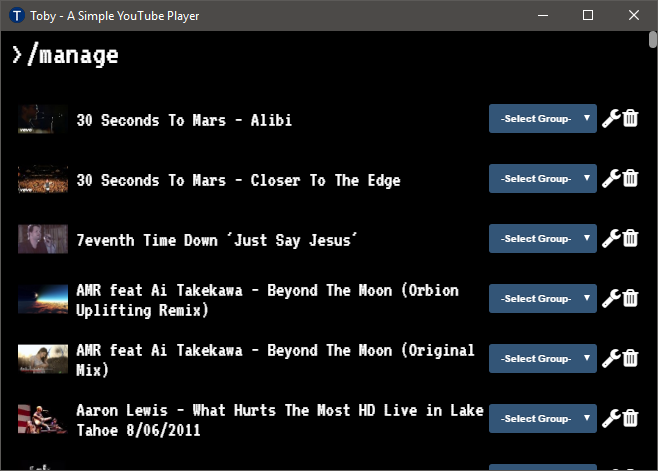
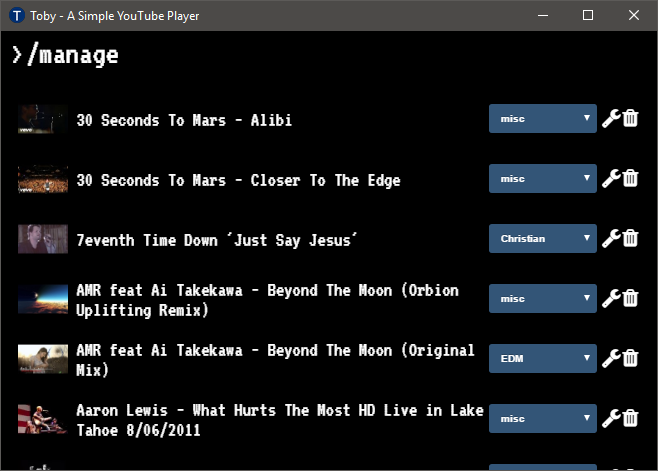
Select group in dropdown when managing videos

diff --git a/src/video-list-ui.js b/src/video-list-ui.js
@@ -26,7 +26,6 @@ class VideoList extends React.Component {
     this.state = {
       data: [],
       applyFilter: "",
-      manageButtonItems: [],
       onAddVideoButtonHandler: function() {},
       onUpdateVideoButtonHandler: function() {},
       onDeleteVideoButtonHandler: function() {}
@@ -66,25 +65,28 @@ class VideoList extends React.Component {
       });
     }
 
-    this.setState({
-      items: items,
-      data: nextProps.data.map(function(d, i) {
+    let videos = [];
+
+    if(nextProps.data !== undefined && nextProps.data.length > 0) {
+      videos = nextProps.data.map(function(d, i) {
+        //console.log(d);
+
         return {
           playVideo: d.playVideo,
           title: d.title,
           ytid: d.ytid,
+          group: d.group,
           thumbnail: d.thumbnail,
           isArchived: d.isArchived,
           justAdded: (d.justAdded !== undefined) ? d.justAdded : false
         };
-      }.bind(this)),
+      }.bind(this));
+    }
+
+    this.setState({
+      items: items,
+      data: videos,
       applyFilter: (nextProps.applyFilter !== undefined) ? nextProps.applyFilter : "",
-      manageButtonItems: nextProps.data.map(function(d, i) {
-        return {
-          title: d.title,
-          ytid: d.ytid
-        };
-      }),
       onAddVideoButtonHandler: nextProps.addVideoButtonHandler,
       onUpdateVideoButtonHandler: nextProps.updateVideoButtonHandler,
       onDeleteVideoButtonHandler: nextProps.deleteVideoButtonHandler,
@@ -95,7 +97,7 @@ class VideoList extends React.Component {
     e.preventDefault();
 
     let id = $(e.target).prop("id").replace("star-", ""),
-        video = _.find(this.state.manageButtonItems, { "ytid": id }),
+        video = _.find(this.state.data, { "ytid": id }),
         group = $(`#groupSelector-${video.ytid}`).val();
 
     if(group === "-1") return;
@@ -118,7 +120,7 @@ class VideoList extends React.Component {
     console.log($(e.target).prop("id").replace("star-", ""));
 
     let id = $(e.target).prop("id").replace("star-", ""),
-        video = _.find(this.state.manageButtonItems, { "ytid": id }),
+        video = _.find(this.state.data, { "ytid": id }),
         group = $(`#groupSelector-${video.ytid}`).val();
 
     if(group === "-1") return;
@@ -131,7 +133,7 @@ class VideoList extends React.Component {
     e.preventDefault();
 
     let id = $(e.target).prop("id").replace("star-", ""),
-        video = _.find(this.state.manageButtonItems, { "ytid": id });
+        video = _.find(this.state.data, { "ytid": id });
 
     if(this.state.onDeleteVideoButtonHandler !== undefined && video !== undefined) {
       this.state.onDeleteVideoButtonHandler(video);
@@ -178,7 +180,7 @@ class VideoList extends React.Component {
 
         manageButton =
           <td className="border-right buttonContainerWidth"><span>
-            <DropDown name={"groupSelector-" + d.ytid } items={this.state.items} className={dropDownClass} onDropDownChange={this.onDropDownChange} />
+            <DropDown name={"groupSelector-" + d.ytid } selected={d.group} items={this.state.items} className={dropDownClass} onDropDownChange={this.onDropDownChange} />
             <a href="#" id={"star-" + d.ytid} onClick={this.onUpdateVideoButtonHandler} className={updateButtonClass}></a>
             <a href="#" id={"star-" + d.ytid} onClick={this.onDeleteVideoButtonHandler} className={deleteButtonClass}></a>
           </span></td>;

diff --git a/public/stylesheets/app.css b/public/stylesheets/app.css
@@ -115,7 +115,9 @@ tr:hover td.border-right {
   text-decoration: none;
   margin-right: 2px;
 }
-
+.manageButton:hover {
+  color: #999;
+}
 .grayscale {
   -webkit-filter: grayscale(1);
 }
@@ -138,7 +140,6 @@ tr:hover td.border-right {
 ::-webkit-scrollbar-corner {
     background: #fff;
 }
-
 /* Select style borrowed from: http://codepen.io/AmrSubZero/pen/dxpri */
 select {
   background-color:#357;
@@ -160,25 +161,20 @@ select {
   -webkit-transition:0.3s ease all;
 	        transition:0.3s ease all;
 }
-
 select:focus, select:active {
   border:0;
   outline:0;
 }
-
 .groupDropDown:hover {
   background-color:#123;
 }
-
 .groupDropDownDisabled {
   margin-right: 5px;
   background-color:#333;
 }
-
 .groupDropDown {
   margin-right: 5px;
 }
-
 #version {
   position: fixed;
   bottom: 25px;

diff --git a/src/toby-ui.js b/src/toby-ui.js
@@ -196,6 +196,7 @@ class TobyUI extends React.Component {
         playVideo: this.playVideo.bind(this),
         title: v.title,
         ytid: v.ytid,
+        group: v.group,
         thumbnail: `https://i.ytimg.com/vi/${v.ytid}/default.jpg`,
         isArchived: v.isArchived
       });
@@ -277,7 +278,10 @@ class TobyUI extends React.Component {
     }
   }
   render() {
-    let versionDisplay = (this.state.searchResults.length > 0) ? false : true;
+    let versionDisplay = true;
+    if (this.state.searchResults !== undefined && this.state.searchResults.length > 0) {
+      versionDisplay = false;
+    }
 
     return (
       <div>

diff --git a/src/dropdown-ui.js b/src/dropdown-ui.js
@@ -63,12 +63,13 @@ class DropDown extends React.Component {
   }
   render() {
     let renderedItems =  this.state.items.map(function(e, i) {
-      if(e.selected) {
+      //console.log(`${e.name} === ${this.props.selected}`);
+      if(e.selected || (this.props.selected !== undefined && this.props.selected === e.name)) {
         return <option key={i} value={e.value} selected>{e.name}</option>
       } else {
         return <option key={i} value={e.value}>{e.name}</option>
       }
-    });
+    }.bind(this));
 
     return (
       <select id={this.state.name}

diff --git a/index.html b/index.html
@@ -15,7 +15,7 @@
     <div id="loading">
       <i class="fa fa-spinner fa-spin fa-2x fa-fw margin-bottom"></i>
     </div>
-    <div id="content"></div>    
+    <div id="content"></div>
     <webview id="webview" allowtransparency></webview>
 
     <script src="./build/nw.js"></script>

diff --git a/src/api.js b/src/api.js
@@ -118,6 +118,7 @@ const API = (function(db) {
             finalResults.push({
               title: r.title,
               ytid: r.id,
+              group: r.group,
               isArchived: (found !== undefined) ? true : false
             });
           });

diff --git a/README.md b/README.md
@@ -150,8 +150,8 @@ search box that will perform various things.
 Here is a list (there will be additional ones added soon):
 
 - `[name hint]` : Lists locally saved videos based on the [name hint]
-- `yt: [search term]` : Searches YouTube for the [search term]
-- `g: [group name]` : Lists the videos for the [group name]
+- `/yt [search term]` : Searches YouTube for the [search term]
+- `/g [group name]` : Lists the videos for the [group name]
 - `/list` : List all videos contained in the database
 - `/history` : Lists the recently played videos
 - `/rp` or `/recently-played` : List last 30 recently played videos
@@ -217,7 +217,7 @@ Recently Played {
 ## Author(s)
 
 Frank Hale &lt;frankhale@gmail.com&gt;  
-22 May 2016
+23 May 2016
 
 ## License
 
